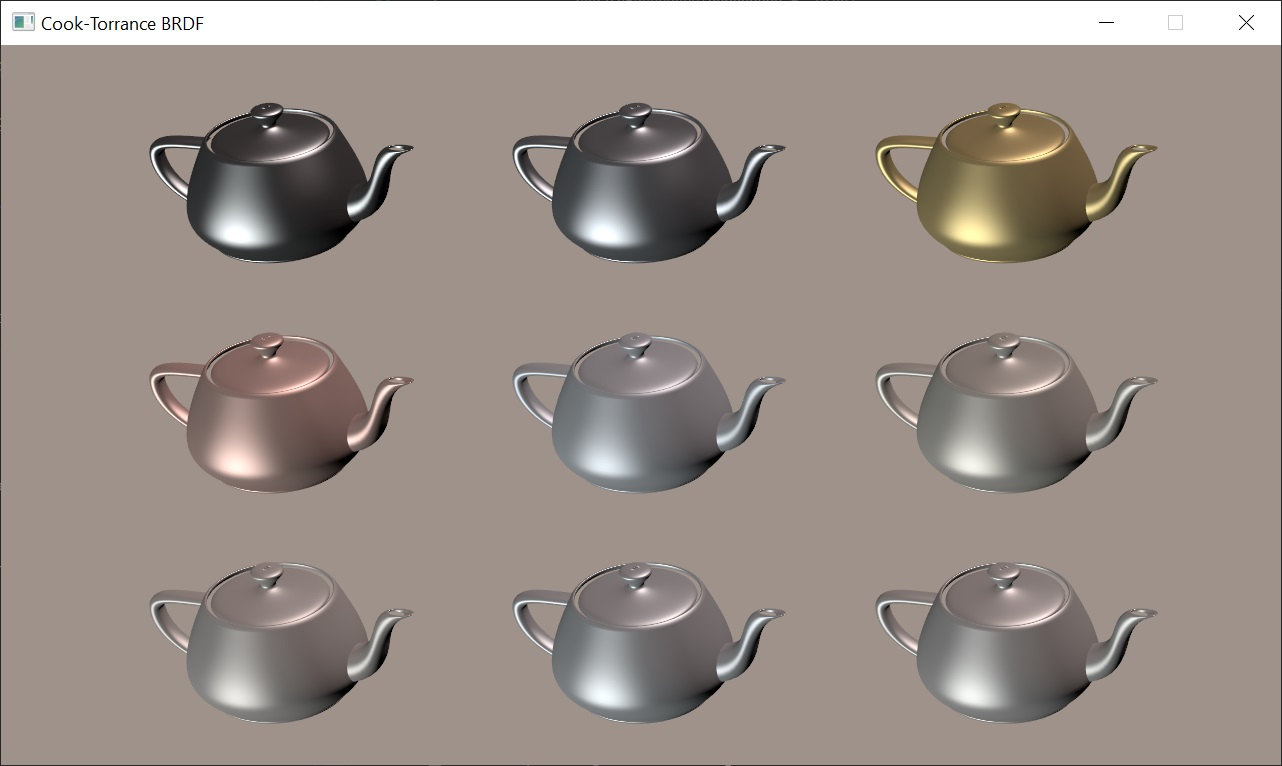
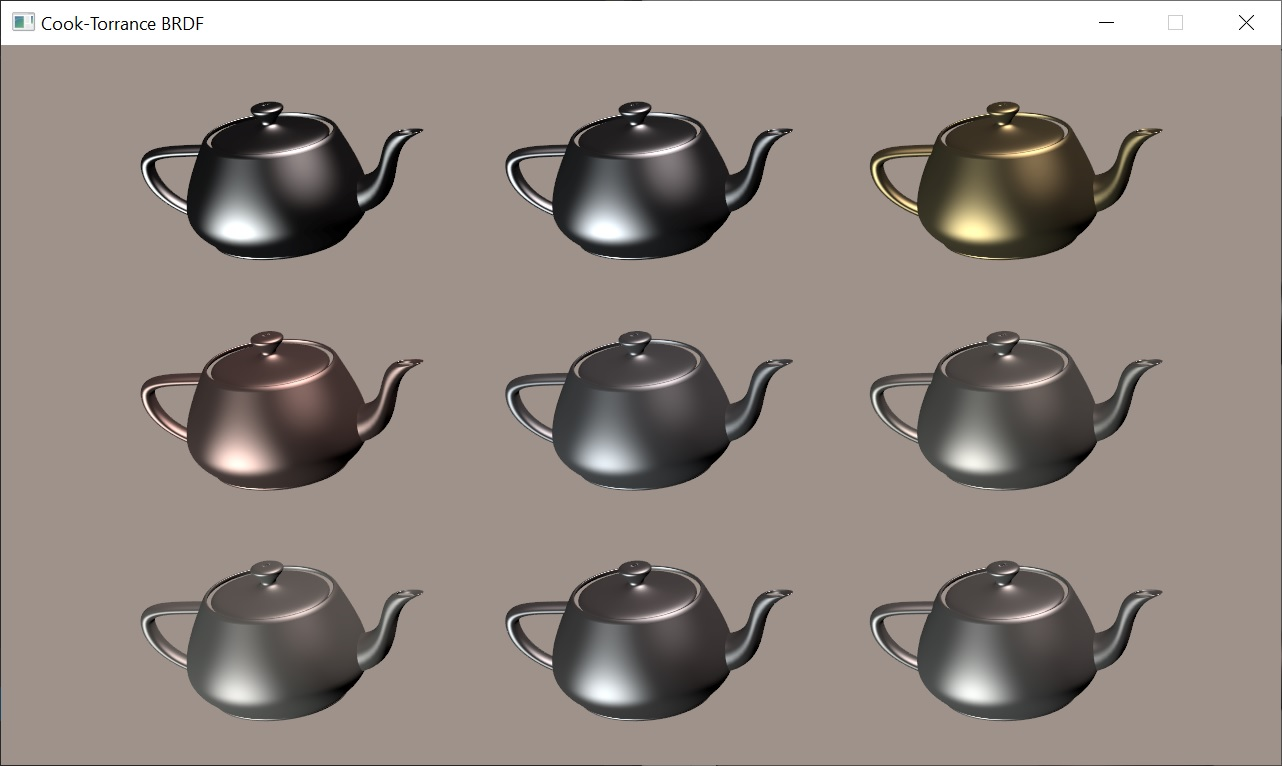
Use albedo color for diffuse component instead of rgb F(0). Fixed wrong min(NdV, NdL) in cookTorranceGeometric() function. Missed factor 4 in diffuse computation, should be (1 - F)/4. Implemented luma*() functions.

diff --git a/cook-torrance/cook-torrance.cpp b/cook-torrance/cook-torrance.cpp
@@ -39,6 +39,7 @@ class CookTorrance : public GraphicsApp
     std::shared_ptr<magma::StorageBuffer> lightSources;
     std::shared_ptr<magma::UniformBuffer<Roughness>> roughnessUniform;
     std::shared_ptr<magma::DynamicUniformBuffer<RefractiveIndices>> refractiveIndices;
+    std::shared_ptr<magma::DynamicUniformBuffer<LinearColor>> albedoColors;
     std::shared_ptr<magma::GraphicsPipeline> cookTorrancePipeline;
     DescriptorSet descriptor;
 
@@ -52,6 +53,7 @@ public:
         createTransformBuffer(Metal::Max);
         setupViewProjection();
         setupRefractiveIndices();
+        setupAlbedo();
         setupDirectionalLights();
         updateRoughness(roughness);
         createMeshObjects();
@@ -159,6 +161,24 @@ public:
             });
     }
 
+    void setupAlbedo()
+    {
+        albedoColors = std::make_shared<magma::DynamicUniformBuffer<LinearColor>>(device, Metal::Max);
+        magma::helpers::mapScoped<LinearColor>(albedoColors,
+            [this](magma::helpers::AlignedUniformArray<LinearColor>& albedo)
+            {   // https://www.chaosgroup.com/blog/understanding-metalness
+                albedo[Silver] = LinearColor(252, 250, 249);
+                albedo[Aluminium] = LinearColor(230, 233, 235);
+                albedo[Gold] = LinearColor(243, 201, 104);
+                albedo[Copper] = LinearColor(238, 158, 137);
+                albedo[Chromium] = LinearColor(141, 141, 141);
+                albedo[Nickel] = LinearColor(226, 219, 192);
+                albedo[Titanium] = LinearColor(246, 239, 208);
+                albedo[Cobalt] = LinearColor(174, 167, 157);
+                albedo[Platinum] = LinearColor(243, 238, 216);
+            });
+    }
+
     void setupDirectionalLights()
     {
         DirectionalLightSource lights[2];
@@ -184,7 +204,8 @@ public:
                 FragmentStageBinding(1, UniformBuffer(1)),
                 FragmentStageBinding(2, StorageBuffer(1)),
                 FragmentStageBinding(3, UniformBuffer(1)),
-                FragmentStageBinding(4, DynamicUniformBuffer(1))
+                FragmentStageBinding(4, DynamicUniformBuffer(1)),
+                FragmentStageBinding(5, DynamicUniformBuffer(1))
             }));
         descriptor.set = descriptorPool->allocateDescriptorSet(descriptor.layout);
         descriptor.set->update(0, transforms);
@@ -192,6 +213,7 @@ public:
         descriptor.set->update(2, lightSources);
         descriptor.set->update(3, roughnessUniform);
         descriptor.set->update(4, refractiveIndices);
+        descriptor.set->update(5, albedoColors);
     }
 
     void setupGraphicsPipeline()
@@ -222,7 +244,8 @@ public:
                 {
                     cmdBuffer->bindDescriptorSet(cookTorrancePipeline, descriptor.set, {
                         transforms->getDynamicOffset(i),
-                        refractiveIndices->getDynamicOffset(i)
+                        refractiveIndices->getDynamicOffset(i),
+                        albedoColors->getDynamicOffset(i)
                     });
                     teapot->draw(cmdBuffer);
                 }

diff --git a/framework/shaders/brdf/cookTorrance.h b/framework/shaders/brdf/cookTorrance.h
@@ -1,23 +1,17 @@
+#include "../common/luma.h"
 #include "geometric.h"
 #include "distribution.h"
 #include "schlick.h"
 
-float diffuseEnergyRatio(vec3 rgbF0, float cosTheta)
-{
-    float f0 = dot(rgbF0, vec3(0.299, 0.587, 0.114)); // ITU BT.601
-#ifdef E_1_FDIFF
-    return 1. - fresnelSchlick(f0, cosTheta);
-#else
-    return 1. - f0;
-#endif
-}
-
 vec3 cookTorrance(vec3 n, vec3 l, vec3 v,
     vec3 f0, float roughness,
-    vec3 Kalbedo, vec3 Idiff)
+    vec3 albedo, vec3 Idiff)
 {
     vec3 h = normalize(l + v);
-    vec3 F = fresnelSchlick(f0, dot(h, v));
+    float HdV = dot(h, v);
+    float NdL = dot(n, l);
+    float NdV = dot(n, v);
+    vec3 F = fresnelSchlick(f0, HdV);
 #if defined(D_BLINN_PHONG)
     float D = blinnPhongDistribution(n, h, roughness);
 #elif defined(D_GAUSSIAN)
@@ -36,9 +30,12 @@ vec3 cookTorrance(vec3 n, vec3 l, vec3 v,
 #else
 #error geometric function not defined
 #endif
-    float NdL = dot(n, l);
-    float NdV = dot(n, v);
     vec3 spec = F * D * G/max(4. * NdL * NdV, 1e-6);
-    vec3 diff = Kalbedo * diffuseEnergyRatio(f0, NdL);
-    return Idiff * max(NdL, 0.) * vec3(diff + spec);
+#if defined(F_DIFFUSE_NDL)
+    vec3 Fd = fresnelSchlick(f0, NdL);
+#else // UE4 computes it as dot(h, v)
+    vec3 Fd = F;
+#endif
+    vec3 diff =  albedo * (1. - luma709(Fd))/4.;
+    return Idiff * (max(NdL, 0.) * diff + spec);
 }

diff --git a/framework/shaders/brdf/geometric.h b/framework/shaders/brdf/geometric.h
@@ -7,12 +7,11 @@ float implicitGeometric(vec3 n, vec3 h, vec3 v, vec3 l, float)
 
 float cookTorranceGeometric(vec3 n, vec3 h, vec3 v, vec3 l, float)
 {
-    float NdH = dot(n, h);
+    float NdH2 = 2. * dot(n, h);
     float NdV = dot(n, v);
     float NdL = dot(n, l);
-    float VdH = dot(v, h);
-    float G = 2. * NdH/VdH * min(NdV, NdL);
-    return min(1., max(G, 0.));
+    float VdH = max(dot(v, h), 1e-6); // avoid division by 0
+    return min(1., min(NdH2 * NdV/VdH, NdH2 * NdL/VdH));
 }
 
 float schlickGeometric(vec3 n, vec3 h, vec3 v, vec3 l, float m)

diff --git a/framework/color.h b/framework/color.h
@@ -26,6 +26,8 @@ struct LinearColor : rapid::float4a
     constexpr LinearColor() noexcept: rapid::float4a(0.f, 0.f, 0.f, 1.f) {}
     constexpr LinearColor(const sRGBColor& color) noexcept:
         rapid::float4a(linear(color.x), linear(color.y), linear(color.z), color.w) {}
+    constexpr LinearColor(int r, int g, int b) noexcept:
+        rapid::float4a(r/255.f, g/255.f, b/255.f, 1.f) {}
 
     // https://www.khronos.org/registry/OpenGL/extensions/EXT/EXT_texture_sRGB.txt
     constexpr float linear(float cs) const noexcept

diff --git a/framework/shaders/common/luma.h b/framework/shaders/common/luma.h
@@ -1,0 +1,10 @@
+// https://en.wikipedia.org/wiki/Luma_(video)
+float luma709(vec3 rgb)
+{
+    return dot(rgb, vec3(0.2126, 0.7152, 0.0722));
+}
+
+float luma601(vec3 rgb)
+{
+    return dot(rgb, vec3(0.299, 0.587, 0.114));
+}
